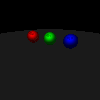
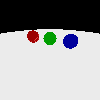
Reflection working.

diff --git a/Raytracer/RayTracer.cpp b/Raytracer/RayTracer.cpp
@@ -66,10 +66,7 @@ Vector3 shadeLights(Hitpoint &hitpoint,vector<RenderPrimitive*> &points,vector<L
 			auto h = (v + l).normalize();
 
 			float distsq = (light.origin).distanceSquared(hitpoint.pt);
-			//Vector3 d = mat.Kd*light.Kd*max(0, n.dot(l));
 			vec += mat.Kd*light.Kd*max(0, n.dot(l)) + mat.Ks*light.Ks*pow(max(0, n.dot(h)), mat.shiny);vec+= mat.Kd*light.Kd*max(0, n.dot(l)) + mat.Ks*light.Ks*pow(max(0, n.dot(h)), mat.shiny);		
-			//+ points[index]->material->Ks*shadeLights();
-			//v += mat.Kd*I*max(0, n.dot(l));
 		}
 	}
 	return vec;
@@ -98,7 +95,7 @@ Vector3 mirror(Ray &origin, vector<RenderPrimitive*> &points, vector<Light*> lig
 			return c;//points[index]->material->Ks;
 		else {
 
-			return c + points[index]->material->Kd*mirror(Ray(hp.pt, origin.dir.reflect(hp.n)),points,lights,--reflections);
+			return c + points[index]->material->reflect*mirror(Ray(hp.pt, origin.dir.reflect(hp.n)),points,lights,--reflections);
 		}
 	}
 }
@@ -133,38 +130,9 @@ int main(int argc, char ** argv)
 		for (int x = 0; x < RES; ++x)
 		{
 			Ray r = generator.getRay(x, y);
-			/*float closest = FLT_MAX;
-			int index = -1;
-			//printf("%f\n",r.dir[2]);
-			Vector3 rt = r.getDirection();
-			bool intersected = false;
-			for (size_t i = 0; i < objects.size(); ++i)
-			{
-				float t = objects[i]->intersects(r);
-				if (t > -1) {
-					if (t < closest) {
-						index = i;
-						closest = t;
-					}
-					//r.dir[0] = 1; r.dir[1] = 1; r.dir[2] = 1;
-				}
-			}
-			//if (index > -1) {
-			//	rt = objects[index]->getNormal(r.origin + r.dir*closest);
-				Vector3 point = r.origin + closest*r.dir;
-				Material *mat = objects[index]->getMaterial();
-				Hitpoint hit(point, -r.dir, objects[index]->getNormal(point),mat);*/
 				Vector3 d = mirror(r,objects,lights,1);
 				Color c = Color(fabs(d[0]), fabs(d[1]), fabs(d[2]));
-				//d += mirror(Ray(hit.pt, r.dir.reflect(hit.n)),objects,lights,1);
 				buffer.at(x, RES - y - 1) = d;
-				//printf("%f\n", d[2]);
-			/*}
-			else {
-				Vector3 d; // rt;//*255.0f;
-				Color c = Color(fabs(d[0]), fabs(d[1]), fabs(d[2]));
-				buffer.at(x, RES - y - 1) = d;
-			}*/
 		}
 	});
 	float scaling = 0;

diff --git a/Raytracer/Material.h b/Raytracer/Material.h
@@ -17,7 +17,6 @@ Material::Material(obj_material *mtl):
 	Ka(objToGenVec(mtl->amb)),Kd(objToGenVec(mtl->diff)),Ks(objToGenVec(mtl->spec)),
 	reflect(mtl->reflect),shiny(mtl->shiny)
 {
-
 }
 
 Material::~Material()
